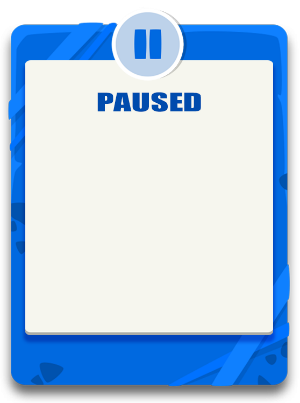
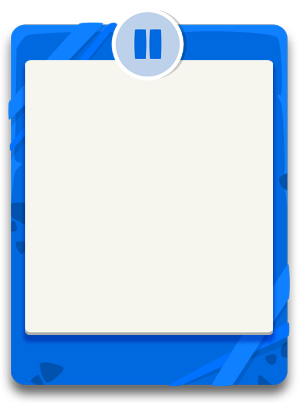
pause dialog

Changed region(s): [[0.3, 0.2084, 0.69, 0.2978]]

diff --git a/src/css/main.less b/src/css/main.less
@@ -259,6 +259,54 @@ content {
 					top: 32px;
 					right: 13px;
 				}
+
+				h2 {
+					position: absolute;
+					top: 89px;
+					left: 40px;
+					right: 40px;
+				}
+
+				.options {
+					// background: #0002;
+					position: absolute;
+					top: 122px;
+					left: 75px;
+					width: 142px;
+					height: 190px;
+					font-size: 0;
+
+					> div {
+						display: inline-block;
+						width: 67px;
+						height: 67px;
+						cursor: pointer;
+					}
+				}
+
+				.btn-fullscreen {
+					background: url(~/gfx/fullscreenbtn-sheet0.webp) 50% 50%/contain no-repeat;
+					margin: 0 8px 0 0;
+				}
+
+				.btn-gamepad {
+					background: url(~/gfx/gamepadbtn-sheet0.png) 50% 50%/contain no-repeat;
+				}
+
+				.btn-audio {
+					background: url(~/gfx/musicbtn-sheet0.webp) 50% 50%/contain no-repeat;
+					margin: 0 8px 0 0;
+				}
+
+				.btn-replay {
+					background: url(~/gfx/replaygamebtn-sheet0.png) 50% 50%/contain no-repeat;
+				}
+
+				div.btn-home {
+					background: url(~/gfx/backhomebtn-sheet0.png) 50% 50%/contain no-repeat;
+					width: 137px;
+					margin: 0 0 0 2px;
+				}
 			}
 		}
 
@@ -384,67 +432,107 @@ content {
 					width: 28px;
 					height: 18px;
 					transform: translateY(-2px) translateX(-7px) scale(0.8);
+
+					&:before {
+						opacity: 0;
+						content: "+1";
+						position: absolute;
+						top: -5px;
+						left: -1px;
+						width: 30px;
+						text-align: center;
+						font-size: 18px;
+						color: #fff;
+						text-shadow: 0 1px 1px #b00a,
+									0 -1px 1px #b00a,
+									1px 0 1px #b00a,
+									-1px 0 1px #b00a;
+						transition: opacity 120ms ease-in-out,
+									top 120ms ease-in-out;
+					}
 				}
 
 				.front-ammo {
 					--flvl: var( --l09 );
+					min-height: 0;
+					transition: min-height 1100ms;
+
+					&.upgrade {
+						min-height: 1px;
+
+						i:before {
+							opacity: 1;
+							top: -17px;
+						}
+					}
 
 					i {
 						background-position: var( --flvl );
 
-						&:nth-child(1) { top: 5px; left: 3px; }
-						&:nth-child(2) { top: 5px; left: 36px; }
-						&:nth-child(3) { top: 5px; left: 68px; }
-						&:nth-child(4) { top: 5px; left: 100px; }
-						&:nth-child(5) { top: 5px; left: 133px; }
-						&:nth-child(6) { top: 5px; left: 165px; }
-						&:nth-child(7) { top: 5px; left: 197px; }
+						&:nth-child(1) { top: 5px; left: 3px; &:before { transition-delay: 950ms; } }
+						&:nth-child(2) { top: 5px; left: 36px; &:before { transition-delay: 900ms; } }
+						&:nth-child(3) { top: 5px; left: 68px; &:before { transition-delay: 850ms; } }
+						&:nth-child(4) { top: 5px; left: 100px; &:before { transition-delay: 800ms; } }
+						&:nth-child(5) { top: 5px; left: 133px; &:before { transition-delay: 750ms; } }
+						&:nth-child(6) { top: 5px; left: 165px; &:before { transition-delay: 700ms; } }
+						&:nth-child(7) { top: 5px; left: 197px; &:before { transition-delay: 650ms; } }
 
-						&:nth-child(8) { top: 44px; left: 19px; }
-						&:nth-child(9) { top: 44px; left: 52px; }
-						&:nth-child(10) { top: 44px; left: 84px; }
-						&:nth-child(11) { top: 44px; left: 116px; }
-						&:nth-child(12) { top: 44px; left: 149px; }
-						&:nth-child(13) { top: 44px; left: 181px; }
+						&:nth-child(8) { top: 44px; left: 19px; &:before { transition-delay: 350ms; } }
+						&:nth-child(9) { top: 44px; left: 52px; &:before { transition-delay: 400ms; } }
+						&:nth-child(10) { top: 44px; left: 84px; &:before { transition-delay: 450ms; } }
+						&:nth-child(11) { top: 44px; left: 116px; &:before { transition-delay: 500ms; } }
+						&:nth-child(12) { top: 44px; left: 149px; &:before { transition-delay: 550ms; } }
+						&:nth-child(13) { top: 44px; left: 181px; &:before { transition-delay: 600ms; } }
 
-						&:nth-child(14) { top: 83px; left: 3px; }
-						&:nth-child(15) { top: 83px; left: 36px; }
-						&:nth-child(16) { top: 83px; left: 68px; }
-						&:nth-child(17) { top: 83px; left: 100px; }
-						&:nth-child(18) { top: 83px; left: 133px; }
-						&:nth-child(19) { top: 83px; left: 165px; }
-						&:nth-child(20) { top: 83px; left: 197px; }
+						&:nth-child(14) { top: 83px; left: 3px; &:before { transition-delay: 300ms; } }
+						&:nth-child(15) { top: 83px; left: 36px; &:before { transition-delay: 250ms; } }
+						&:nth-child(16) { top: 83px; left: 68px; &:before { transition-delay: 200ms; } }
+						&:nth-child(17) { top: 83px; left: 100px; &:before { transition-delay: 150ms; } }
+						&:nth-child(18) { top: 83px; left: 133px; &:before { transition-delay: 100ms; } }
+						&:nth-child(19) { top: 83px; left: 165px; &:before { transition-delay: 50ms; } }
+						&:nth-child(20) { top: 83px; left: 197px; &:before { transition-delay: 0ms; } }
 					}
 				}
 
 				.back-ammo {
 					--blvl: var( --l10 );
+					min-height: 0;
+					transition: min-height 1100ms;
+
+					&.upgrade {
+						min-height: 1px;
+
+						i:before {
+							opacity: 1;
+							top: -17px;
+						}
+					}
 
 					i {
 						background-position: var( --blvl );
 						
-						&:nth-child(1) { top: 122px; left: 3px; }
-						&:nth-child(2) { top: 122px; left: 36px; }
-						&:nth-child(3) { top: 122px; left: 68px; }
-						&:nth-child(4) { top: 122px; left: 100px; }
-						&:nth-child(5) { top: 122px; left: 133px; }
-						&:nth-child(6) { top: 122px; left: 165px; }
-						&:nth-child(7) { top: 122px; left: 197px; }
+						&:nth-child(1) { top: 122px; left: 3px; &:before { transition-delay: 300ms; } }
+						&:nth-child(2) { top: 122px; left: 36px; &:before { transition-delay: 250ms; } }
+						&:nth-child(3) { top: 122px; left: 68px; &:before { transition-delay: 200ms; } }
+						&:nth-child(4) { top: 122px; left: 100px; &:before { transition-delay: 150ms; } }
+						&:nth-child(5) { top: 122px; left: 133px; &:before { transition-delay: 100ms; } }
+						&:nth-child(6) { top: 122px; left: 165px; &:before { transition-delay: 50ms; } }
+						&:nth-child(7) { top: 122px; left: 197px; &:before { transition-delay: 0ms; } }
 
-						&:nth-child(8) { top: 160px; left: 19px; }
-						&:nth-child(9) { top: 160px; left: 52px; }
-						&:nth-child(10) { top: 160px; left: 84px; }
-						&:nth-child(11) { top: 160px; left: 116px; }
-						&:nth-child(12) { top: 160px; left: 149px; }
-						&:nth-child(13) { top: 160px; left: 181px; }
+						&:nth-child(8) { top: 160px; left: 19px; &:before { transition-delay: 350ms; } }
+						&:nth-child(9) { top: 160px; left: 52px; &:before { transition-delay: 400ms; } }
+						&:nth-child(10) { top: 160px; left: 84px; &:before { transition-delay: 450ms; } }
+						&:nth-child(11) { top: 160px; left: 116px; &:before { transition-delay: 500ms; } }
+						&:nth-child(12) { top: 160px; left: 149px; &:before { transition-delay: 550ms; } }
+						&:nth-child(13) { top: 160px; left: 181px; &:before { transition-delay: 600ms; } }
 
-						&:nth-child(14) { top: 200px; left: 3px; }
-						&:nth-child(15) { top: 200px; left: 36px; }
-						&:nth-child(16) { top: 200px; left: 68px; }
-						&:nth-child(17) { top: 200px; left: 100px; }
-						&:nth-child(18) { top: 200px; left: 133px; }
-						&:nth-child(19) { top: 200px; left: 165px; }
-						&:nth-child(20) { top: 200px; left: 197px; }
+						&:nth-child(14) { top: 200px; left: 3px; &:before { transition-delay: 950ms; } }
+						&:nth-child(15) { top: 200px; left: 36px; &:before { transition-delay: 900ms; } }
+						&:nth-child(16) { top: 200px; left: 68px; &:before { transition-delay: 850ms; } }
+						&:nth-child(17) { top: 200px; left: 100px; &:before { transition-delay: 800ms; } }
+						&:nth-child(18) { top: 200px; left: 133px; &:before { transition-delay: 750ms; } }
+						&:nth-child(19) { top: 200px; left: 165px; &:before { transition-delay: 700ms; } }
+						&:nth-child(20) { top: 200px; left: 197px; &:before { transition-delay: 650ms; } }
 						}
 				}
 			}

diff --git a/src/partials/content.htm b/src/partials/content.htm
@@ -45,7 +45,7 @@
 				<h3>Upgrade Frontline</h3>
 				<div class="info">
 					<span class="value">36</span>
-					<span class="price">510</span>
+					<span class="price active" data-click="upgrade-frontline">510</span>
 				</div>
 			</div>
 			<div class="ammo">
@@ -59,7 +59,7 @@
 			<div class="backline">
 				<div class="info">
 					<span class="value">36</span>
-					<span class="price active">510</span>
+					<span class="price active" data-click="upgrade-backline">510</span>
 				</div>
 				<h3>Upgrade Backline</h3>
 			</div>
@@ -74,6 +74,14 @@
 	<div data-area="pause">
 		<div class="bg-pause">
 			<div class="dlg-exit-button"></div>
+			<h2>Paused</h2>
+			<div class="options">
+				<div class="btn-fullscreen"></div>
+				<div class="btn-gamepad"></div>
+				<div class="btn-audio"></div>
+				<div class="btn-replay"></div>
+				<div class="btn-home"></div>
+			</div>
 			<div class="btn-resume"></div>
 		</div>
 	</div>

diff --git a/src/js/areas/laboratory.js b/src/js/areas/laboratory.js
@@ -1,0 +1,34 @@
+
+// bounzy.laboratory
+
+{
+	init() {
+		// fast references
+		this.els = {
+			el: window.find(`div[data-area="laboratory"]`),
+		};
+	},
+	async dispatch(event) {
+		let APP = bounzy,
+			Self = APP.laboratory,
+			data,
+			el;
+		// console.log(event);
+		switch (event.type) {
+			// custom events
+			case "init-view":
+				break;
+			case "upgrade-frontline":
+				Self.els.el.find(`.ammo .front-ammo`).cssSequence("upgrade", "transitionend", el => {
+					el.removeClass("upgrade");
+				});
+				break;
+			case "upgrade-backline":
+				Self.els.el.find(`.ammo .back-ammo`).cssSequence("upgrade", "transitionend", el => {
+					el.removeClass("upgrade");
+				});
+				break;
+		}
+	}
+}
+

diff --git a/src/js/areas/academy.js b/src/js/areas/academy.js
@@ -1,0 +1,28 @@
+
+// bounzy.academy
+
+{
+	init() {
+		// fast references
+		this.els = {
+			el: window.find(`div[data-area="academy"]`),
+		};
+	},
+	async dispatch(event) {
+		let APP = bounzy,
+			Self = APP.academy,
+			data,
+			el;
+		// console.log(event);
+		switch (event.type) {
+			// custom events
+			case "init-view":
+				break;
+			case "upgrade-frontline":
+			case "upgrade-backline":
+				console.log(event);
+				break;
+		}
+	}
+}
+

diff --git a/src/js/areas/pause.js b/src/js/areas/pause.js
@@ -1,0 +1,24 @@
+
+// bounzy.pause
+
+{
+	init() {
+		// fast references
+		this.els = {
+			el: window.find(`div[data-area="pause"]`),
+		};
+	},
+	async dispatch(event) {
+		let APP = bounzy,
+			Self = APP.pause,
+			data,
+			el;
+		// console.log(event);
+		switch (event.type) {
+			// custom events
+			case "init-view":
+				break;
+		}
+	}
+}
+

diff --git a/src/js/main.js b/src/js/main.js
@@ -49,6 +49,9 @@ const bounzy = {
 		}
 	},
 	start: @import "./areas/start.js",
+	laboratory: @import "./areas/laboratory.js",
+	academy: @import "./areas/academy.js",
+	pause: @import "./areas/pause.js",
 	game: @import "./areas/game.js",
 };
 
